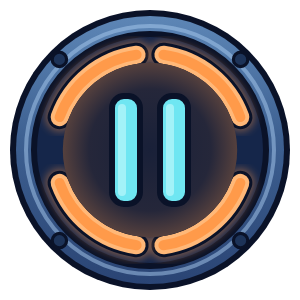
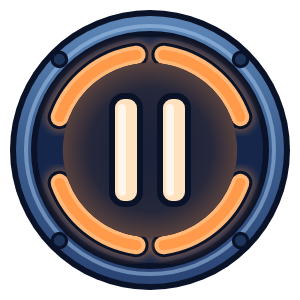
WP-F.28: restore HUD detail (shaped screen bezel, tab, lip notches, bevel, thick cables, warm bulb, cream pause)
Claude-Session: https://claude.ai/code/session_01WDkyXLpEfxw1P2dHkg5jGb

Changed region(s): [[0.36, 0.33, 0.48, 0.69], [0.54, 0.33, 0.63, 0.69]]

diff --git a/scripts/art/hud/gen_hud_svgs.py b/scripts/art/hud/gen_hud_svgs.py
@@ -72,33 +72,48 @@ def console():
     ]
     for c in cables:
         d = smooth([(round(x, 1), round(y, 1)) for x, y in c])
-        parts.append(f'<path d="{d}" fill="none" stroke="{INK}" stroke-width="13" stroke-linecap="round" stroke-linejoin="round"/>')
-        parts.append(f'<path d="{d}" fill="none" stroke="url(#cable)" stroke-width="7" stroke-linecap="round" stroke-linejoin="round"/>')
-        parts.append(f'<path d="{d}" fill="none" stroke="#fff" stroke-opacity=".35" stroke-width="2" stroke-linecap="round" transform="translate(-1.5,-1.5)"/>')
-    # body
-    body = ("M240,70 C380,44 700,40 826,46 Q884,50 890,104 L894,246 Q892,296 862,318 "
-            "C790,336 640,352 470,354 C380,355 300,346 236,318 Z")
+        parts.append(f'<path d="{d}" fill="none" stroke="{INK}" stroke-width="20" stroke-linecap="round" stroke-linejoin="round"/>')
+        parts.append(f'<path d="{d}" fill="none" stroke="url(#cable)" stroke-width="13" stroke-linecap="round" stroke-linejoin="round"/>')
+        parts.append(f'<path d="{d}" fill="none" stroke="#f2f8ff" stroke-opacity=".85" stroke-width="3.5" stroke-linecap="round" transform="translate(-2,-2)"/>')
+    # body: flows out of the porthole (top and bottom swoop into the ring), bevelled
+    body = ("M200,70 C330,50 700,40 826,46 Q896,50 902,104 L906,246 Q904,300 872,326 "
+            "C790,348 640,364 470,366 C360,367 270,352 197,318 Z")
+    parts.append('<clipPath id="bodyclip"><path d="%s"/></clipPath>' % body)
     parts.append(f'<path d="{body}" fill="url(#steel)" stroke="{INK}" stroke-width="9" stroke-linejoin="round"/>')
-    # lower lip with trapezoid notches
-    parts.append(f'<path d="M268,322 C380,346 700,350 850,326 L846,338 C700,356 380,356 276,334 Z" fill="url(#steelD)" stroke="{INK}" stroke-width="3"/>')
-    parts.append(f'<path d="{poly([(420,318),(440,336),(745,336),(768,318)])} Z" fill="#2a4272" stroke="{INK}" stroke-width="3" stroke-linejoin="round"/>')
-    parts.append('<path d="M452,326 H735" stroke="#6f9bd0" stroke-opacity=".6" stroke-width="2.5" stroke-linecap="round"/>')
-    # top cyan tab
-    parts.append(f'<path d="{poly([(452,42),(470,54),(722,54),(742,42)])} Z" fill="#17496e" stroke="{INK}" stroke-width="3" stroke-linejoin="round"/>')
-    parts.append(f'<path d="M470,50 H722" stroke="{CYAN}" stroke-width="3" stroke-linecap="round"/><path d="M460,44 H736" stroke="#8fe9f5" stroke-opacity=".7" stroke-width="2"/>')
-    # slot screen
-    scr = ("M338,66 H852 Q870,66 870,84 V150 L864,160 V230 L870,242 V300 Q870,312 858,312 H340 "
-           "Q326,312 326,298 V244 L332,234 V150 L326,140 V82 Q326,66 338,66 Z")
-    parts.append(f'<path d="{scr}" fill="{INK}" stroke="{INK}" stroke-width="16" stroke-linejoin="round"/>')
-    parts.append(f'<path d="{scr}" fill="url(#glass)" stroke="{CYAN}" stroke-width="7" stroke-linejoin="round" filter="url(#glowS)" opacity=".7"/>')
-    parts.append(f'<path d="{scr}" fill="url(#glass)" stroke="{CYAN}" stroke-width="4" stroke-linejoin="round"/>')
-    parts.append('<path d="M344,76 H850 Q860,76 860,86 V132 Q600,150 340,132 V86 Q340,76 344,76 Z" fill="#fff" opacity=".07"/>')
-    parts.append('<path d="M345,300 H852" stroke="#7fe9f5" stroke-opacity=".28" stroke-width="3" stroke-linecap="round"/>')
+    # bevel: light upper edge just inside the ink, darker shadow along the lower lip
+    parts.append(f'<g clip-path="url(#bodyclip)"><path d="M200,70 C330,50 700,40 826,46 Q896,50 902,104" fill="none" stroke="#bfdcfa" stroke-opacity=".75" stroke-width="5" transform="translate(0,6)"/>'
+                 '<path d="M200,70 C330,50 700,40 826,46 Q896,50 902,104" fill="none" stroke="#fff" stroke-opacity=".35" stroke-width="2" transform="translate(0,11)"/>'
+                 f'<rect x="190" y="326" width="720" height="80" fill="#14264c" opacity=".55"/>'
+                 '<path d="M190,326 H900" stroke="#7fa6d6" stroke-opacity=".65" stroke-width="2.5"/>'
+                 '<path d="M197,318 C270,350 360,361 470,360 C640,358 790,342 862,320" fill="none" stroke="#0b1633" stroke-opacity=".7" stroke-width="10" transform="translate(0,-5)"/></g>')
+    # angled notches in the lower lip around the centre plate
+    parts.append(f'<path d="{poly([(414,326),(436,346),(752,346),(774,326)])} Z" fill="#2c4676" stroke="{INK}" stroke-width="3" stroke-linejoin="round"/>')
+    parts.append('<path d="M446,336 H742" stroke="#7fb0e2" stroke-opacity=".7" stroke-width="2.5" stroke-linecap="round"/>')
+    for sx in (-1, 1):
+        x = 425 if sx < 0 else 765
+        parts.append(f'<path d="M{x-6*sx},322 L{x+8*sx},346" stroke="{INK}" stroke-width="3" stroke-linecap="round"/><path d="M{x-6*sx+2*sx},322 L{x+8*sx+2*sx},346" stroke="#9cc4ee" stroke-opacity=".5" stroke-width="1.5"/>')
+    # raised tab on the top edge
+    parts.append(f'<path d="{poly([(446,50),(466,30),(728,30),(748,50)])} Z" fill="#3d6396" stroke="{INK}" stroke-width="4" stroke-linejoin="round"/>')
+    parts.append(f'<path d="M470,39 H724" stroke="{CYAN}" stroke-width="3.5" stroke-linecap="round"/><path d="M466,34 H728" stroke="#cfeaff" stroke-opacity=".7" stroke-width="2"/>')
+    # slot screen: steel bezel, thin cyan line, glossy glass lighter at the top
+    scr = ("M352,66 H844 Q870,66 870,92 V150 L864,160 V230 L870,242 V288 Q870,312 846,312 H352 "
+           "Q326,312 326,288 V244 L332,234 V150 L326,140 V92 Q326,66 352,66 Z")
+    parts.append(f'<clipPath id="scrclip"><path d="{scr}"/></clipPath>')
+    parts.append(f'<path d="{scr}" fill="{INK}" stroke="{INK}" stroke-width="26" stroke-linejoin="round"/>')
+    parts.append(f'<path d="{scr}" fill="#2d4d7e" stroke="#2d4d7e" stroke-width="20" stroke-linejoin="round"/>')
+    parts.append(f'<path d="{scr}" fill="none" stroke="#7aa6d8" stroke-opacity=".7" stroke-width="2" stroke-linejoin="round" transform="translate(0,-9)" clip-path="url(#bodyclip)"/>')
+    parts.append(f'<path d="{scr}" fill="{INK}" stroke="{INK}" stroke-width="8" stroke-linejoin="round"/>')
+    parts.append(f'<path d="{scr}" fill="url(#glass)"/>')
+    parts.append(f'<g clip-path="url(#scrclip)"><path d="{scr}" fill="none" stroke="#082a48" stroke-opacity=".55" stroke-width="22" stroke-linejoin="round"/>'
+                 '<path d="M326,66 H870 V150 Q600,185 326,150 Z" fill="#fff" opacity=".12"/>'
+                 '<path d="M326,66 H870 V100 Q600,112 326,100 Z" fill="#fff" opacity=".07"/></g>')
+    parts.append(f'<path d="{scr}" fill="none" stroke="{CYAN}" stroke-width="6" stroke-linejoin="round" filter="url(#glowS)" opacity=".55"/>')
+    parts.append(f'<path d="{scr}" fill="none" stroke="#7ff0fb" stroke-width="2.5" stroke-linejoin="round" transform="translate(0,0)"/>')
+    parts.append('<path d="M360,300 H838" stroke="#7fe9f5" stroke-opacity=".28" stroke-width="3" stroke-linecap="round"/>')
     # lights
     parts.append(pill(290, 62, 32, 9, ORANGE))
     parts.append(f'<path d="M846,70 Q872,72 880,106 L880,118" fill="none" stroke="{INK}" stroke-width="12" stroke-linecap="round"/>'
                  f'<path d="M846,70 Q872,72 880,106 L880,118" fill="none" stroke="{ORANGE}" stroke-width="6" stroke-linecap="round"/>')
-    parts.append(pill(140, 309, 38, 11, CYAN))
     parts.append(pill(333, 335, 30, 8, CYAN))
     parts.append(pill(813, 334, 32, 8, CYAN))
     for x in (354, 775, 788):
@@ -125,6 +140,7 @@ def console():
     parts.append(f'<circle cx="{pcx}" cy="{pcy}" r="104" fill="none" stroke="{CYAN}" stroke-width="7"/>')
     parts.append(f'<circle cx="{pcx}" cy="{pcy}" r="100" fill="url(#pglass)" stroke="{INK}" stroke-width="2"/>')
     parts.append(f'<path d="{arc(pcx, pcy, 88, 200, 255)}" fill="none" stroke="#fff" stroke-opacity=".22" stroke-width="7" stroke-linecap="round"/>')
+    parts.append(pill(141, 304, 38, 11, CYAN))
     # clock bar frame, channel and legs
     for x0, x1 in ((221, 244), (796, 829)):
         parts.append(f'<path d="M{x0},488 H{x1} L{x1+4},532 H{x0-4} Z" fill="url(#steelD)" stroke="{INK}" stroke-width="4" stroke-linejoin="round"/>'
@@ -179,8 +195,8 @@ def icon_svg(kind):
     if kind == "pause":
         out = []
         for x in (-19, 5):
-            out.append(f'<rect x="{c+x}" y="{c-27}" width="14" height="54" rx="6" fill="{ICON}" stroke="{INK}" stroke-width="3"/>'
-                       f'<rect x="{c+x+3}" y="{c-23}" width="4" height="46" rx="2" fill="{ICON_LIGHT}" opacity=".7"/>')
+            out.append(f'<rect x="{c+x}" y="{c-27}" width="14" height="54" rx="6" fill="#ffe2c0" stroke="{INK}" stroke-width="3"/>'
+                       f'<rect x="{c+x+3}" y="{c-23}" width="4" height="46" rx="2" fill="#fff8ee" opacity=".85"/>')
         return "".join(out)
     if kind == "sound":
         sp = [(c - 33, c - 9), (c - 21, c - 9), (c - 4, c - 26), (c - 4, c + 26), (c - 21, c + 9), (c - 33, c + 9)]
@@ -225,8 +241,8 @@ def bulb():
     cx, cy, r = 51.0, 53.8, 46.8
     glass = (f"M{cx-r:.1f},{cy} A{r},{r} 0 0 1 {cx+r:.1f},{cy} C{cx+r:.1f},{cy+22} {cx+22},{cy+30} {cx+19},{cy+43} "
              f"L{cx+18},{cy+47} H{cx-18} L{cx-19},{cy+43} C{cx-22},{cy+30} {cx-r:.1f},{cy+22} {cx-r:.1f},{cy} Z")
-    defs = ('<defs><radialGradient id="bg" cx=".4" cy=".3" r=".8"><stop offset="0" stop-color="#ffe08a"/><stop offset=".5" stop-color="#ffb938"/>'
-            '<stop offset="1" stop-color="#f08a14"/></radialGradient>'
+    defs = ('<defs><radialGradient id="bg" cx=".4" cy=".3" r=".8"><stop offset="0" stop-color="#fff0a8"/><stop offset=".45" stop-color="#ffc040"/>'
+            '<stop offset="1" stop-color="#e8760c"/></radialGradient>'
             '<linearGradient id="scr" x1="0" y1="0" x2="1" y2="0"><stop offset="0" stop-color="#8d99ad"/><stop offset=".35" stop-color="#dfe6f1"/><stop offset="1" stop-color="#6a768c"/></linearGradient></defs>')
     p = [defs]
     base = poly([(25.6, 100), (77.5, 100), (76, 160), (70, 169), (33, 169), (28, 160)]) + " Z"
@@ -236,6 +252,7 @@ def bulb():
     p.append('<path d="M35,165 H69" stroke="#5a4a7e" stroke-width="5" stroke-linecap="round"/>')
     p.append(f'<path d="{glass}" fill="url(#bg)" stroke="{INK}" stroke-width="5" stroke-linejoin="round"/>')
     p.append(f'<path d="M{cx-19},{cy+44} H{cx+19} L{cx+19},{cy+50} H{cx-19} Z" fill="#a8b2c4" stroke="{INK}" stroke-width="3" stroke-linejoin="round"/>')
+    p.append(f'<circle cx="{cx}" cy="{cy+4}" r="26" fill="#fff4b0" opacity=".5" filter="url(#glow)"/>')
     for dx in (-15, 0, 15):
         p.append(f'<path d="M{cx+dx*0.5},{cy+44} V{cy+22} Q{cx+dx},{cy+10} {cx+dx*1.2},{cy-2} Q{cx+dx*1.1},{cy-12} {cx+dx*0.5},{cy-8}" fill="none" stroke="#7a3b0a" stroke-width="2.8" stroke-linecap="round"/>')
     p.append(f'<ellipse cx="{cx-20}" cy="{cy-22}" rx="14" ry="8" transform="rotate(-35 {cx-20} {cy-22})" fill="#fff" opacity=".75"/>')
